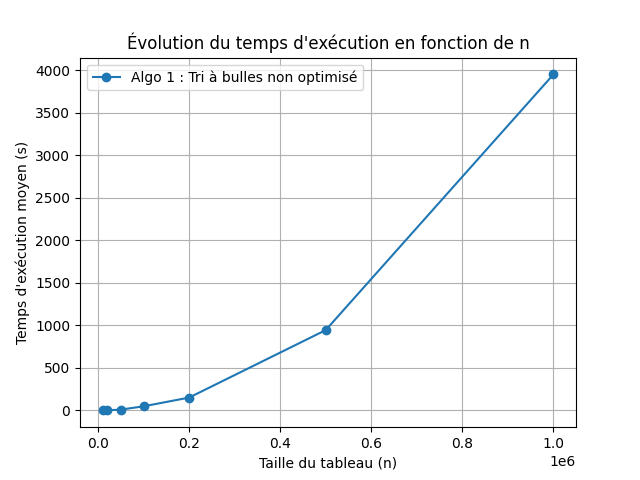
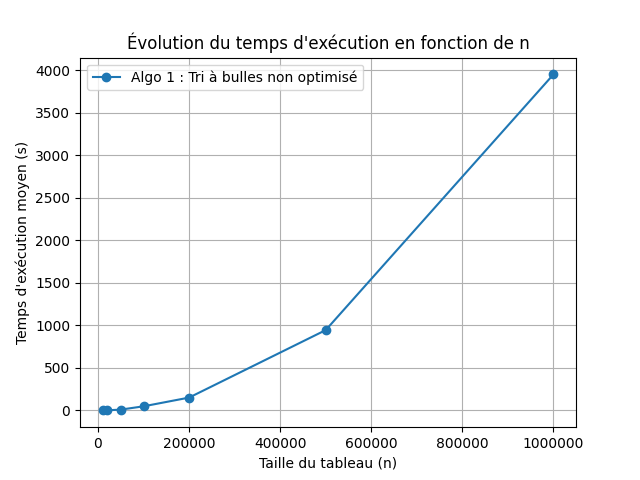
graph + csv algo1

diff --git a/TP4/TriBulles.py b/TP4/TriBulles.py
@@ -13,7 +13,7 @@ col_n = "n"
 col_time = "temps_moyen"   
 
 # Filtrer uniquement l'algo 1
-subset = data[data[col_algo] == 1]
+subset = data[data[col_algo] == 2]
 
 # Tracer
 plt.figure()
@@ -21,12 +21,14 @@ plt.plot(
     subset[col_n],
     subset[col_time],
     marker='o',
-    label="Algo 1 : Tri à bulles non optimisé"
+    label="Algo 2 : Tri à bulles non optimisé"
 )
 
 plt.xlabel("Taille du tableau (n)")  
 plt.ylabel("Temps d'exécution moyen (s)") 
 plt.title("Évolution du temps d'exécution en fonction de n")
+plt.ticklabel_format(style='plain', axis='x')
+
 
 plt.legend()
 plt.grid(True)

diff --git a/TP4/TriBulles+opt.py b/TP4/TriBulles+opt.py
@@ -36,7 +36,7 @@ for algo in subset[col_algo].unique():
 plt.xlabel("Taille du tableau (n)")  
 plt.ylabel("Temps d'exécution moyen (s)") 
 plt.title("Évolution du temps d'exécution en fonction de n")
-
+plt.ticklabel_format(style='plain', axis='x')
 plt.legend()
 plt.grid(True)
 plt.show()

diff --git a/TP4/graph.py b/TP4/graph.py
@@ -10,5 +10,4 @@ plt.xlabel("Taille n du tableau",fontweight='bold')
 plt.ylabel("Temps (s)",fontweight='bold')
 plt.title("Temps d'execution en fonction de la taille n du tableau",fontweight='bold')
 plt.grid(True)
-plt.ticklabel_format(style='plain', axis='x')
 plt.show()
